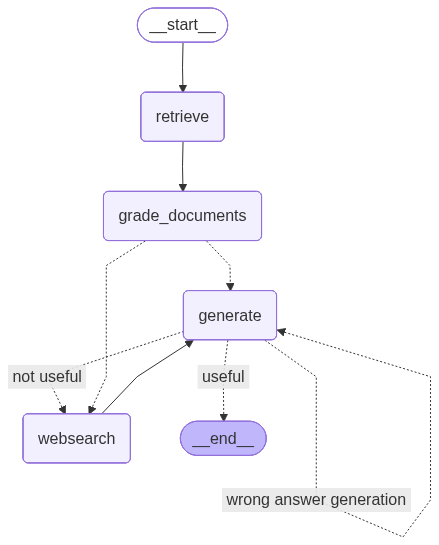
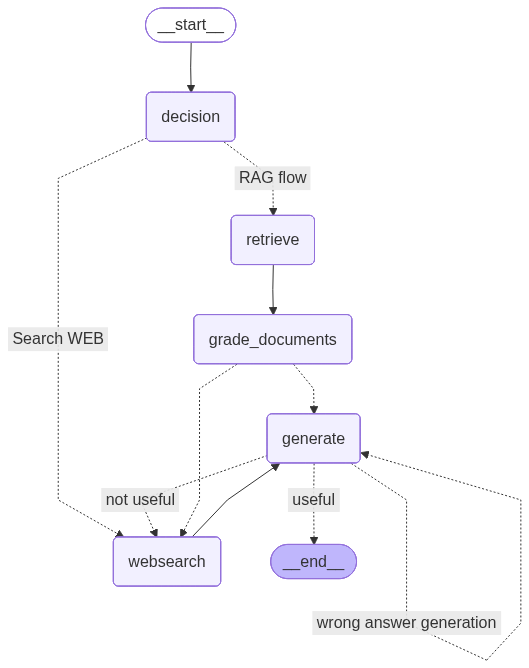
adding decider node

diff --git a/graph/nodes/decider_node.py b/graph/nodes/decider_node.py
@@ -1,0 +1,42 @@
+from langchain_classic.schema import Document
+from langchain_core.vectorstores import VectorStore, VectorStoreRetriever
+
+from graph.state import GraphState
+from ingestion import getVectoreStore
+
+
+def decider_node(state: GraphState):
+    """Node that decides the next state of  after receiving user question based on best similarity score
+    low score is better match
+    """
+    print("Deciding the route")
+    decission=""
+    thresholdScore = 0.35
+    question = state["question"]
+    print(f"User Question {question}")
+
+    vectoreStore: VectorStore = getVectoreStore()
+    response: list[tuple[Document, float]] = vectoreStore.similarity_search_with_score(
+        k=1, query=question
+    )
+    if response:
+        print(f"Best matching vectore document score : {response[0][1]}")
+
+    if response and response[0][1] < thresholdScore:
+        
+        decission = "vectorstore-search"
+    else:
+        decission = "web-search"
+    
+    print(f"Decision :{decission}")
+
+    return {"initialDecision": decission}
+
+
+if __name__ == "__main__":
+    # Testing python -m graph.nodes.decider_node
+    vectoreStore: VectorStore = getVectoreStore()
+    response: list[tuple[Document, float]] = vectoreStore.similarity_search_with_score(
+        k=1, query="What is Machine Learning way of training  LLM ?"
+    )
+    print(response)

diff --git a/graph/graph.py b/graph/graph.py
@@ -1,8 +1,8 @@
 from langgraph.graph import END, START, StateGraph
 
 from graph.chains import answer_grader, hallucination_grader
-from graph.consts import GENERATE, GRADE_DOCUMENTS, RETRIEVE, WEBSEARCH
-from graph.nodes import generate, grade_document, retrieve, web_search
+from graph.consts import DECISION, GENERATE, GRADE_DOCUMENTS, RETRIEVE, WEBSEARCH
+from graph.nodes import decider_node, generate, grade_document, retrieve, web_search
 from graph.state import GraphState
 
 print("Building a LangGraph Graph ")
@@ -12,8 +12,23 @@ builder.add_node(GRADE_DOCUMENTS, grade_document.gradeDocNode)
 builder.add_node(WEBSEARCH, web_search.webSearchNode)
 builder.add_node(GENERATE, generate.generate_node)
 builder.add_node(RETRIEVE, retrieve.retrieveNode)
+builder.add_node(DECISION, decider_node.decider_node)
 
-builder.set_entry_point(RETRIEVE)
+
+builder.set_entry_point(DECISION)
+
+
+def entry_point_condition(state: GraphState):
+
+    if state["initialDecision"] == "vectorstore-search":
+        return "RAG flow"
+    return "Search WEB"
+
+
+builder.add_conditional_edges(
+    DECISION, entry_point_condition, {"RAG flow": RETRIEVE, "Search WEB": WEBSEARCH}
+)
+
 builder.add_edge(RETRIEVE, GRADE_DOCUMENTS)
 
 

diff --git a/ingestion.py b/ingestion.py
@@ -15,6 +15,12 @@ vectorstore = Chroma(
     embedding_function=embeddings,
     collection_name="index-rag-chroma",
 )
+
+
+def getVectoreStore():
+    return vectorstore
+
+
 load_dotenv()
 urls = [
     "https://lilianweng.github.io/posts/2023-06-23-agent/",

diff --git a/graph/state.py b/graph/state.py
@@ -1,6 +1,7 @@
 import operator
 
 from langchain.messages import AnyMessage
+from langchain_core.documents import Document
 from langgraph.graph import MessagesState, StateGraph, add_messages
 from typing_extensions import Annotated, TypedDict
 
@@ -9,4 +10,5 @@ class GraphState(TypedDict):
     question: str
     generation: str
     web_search: bool
-    documents: list[str]
+    documents: list[Document]
+    initialDecision: str

diff --git a/graph/consts.py b/graph/consts.py
@@ -2,3 +2,4 @@ RETRIEVE = "retrieve"
 GRADE_DOCUMENTS = "grade_documents"
 GENERATE = "generate"
 WEBSEARCH = "websearch"
+DECISION = "decision"

diff --git a/README.md b/README.md
@@ -1,0 +1,1 @@
+uv run main.py 